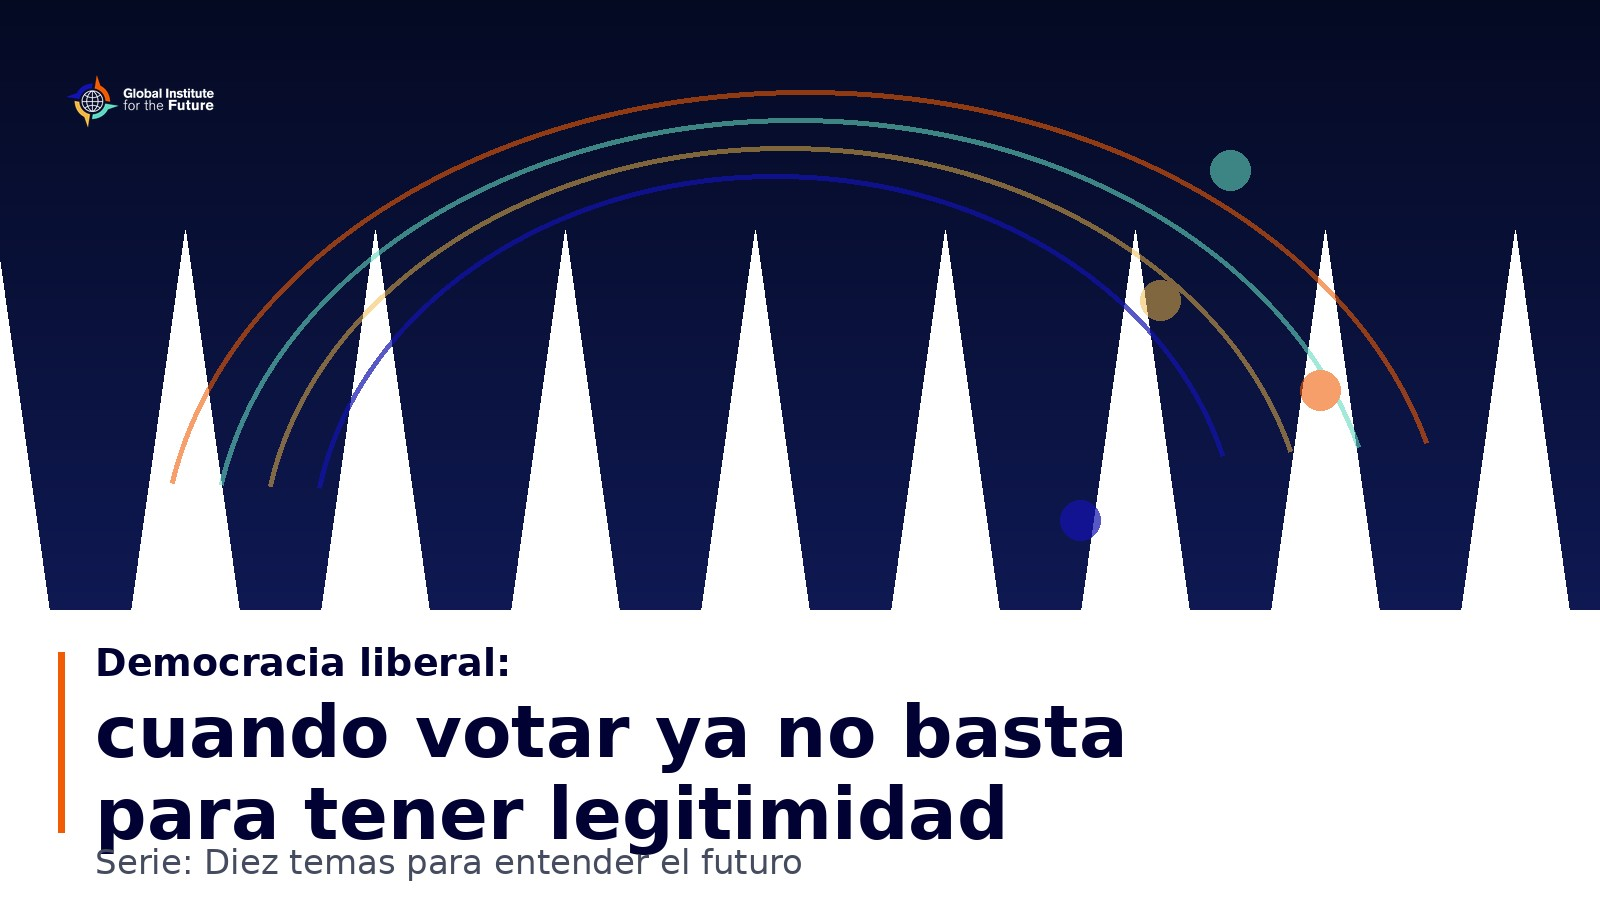
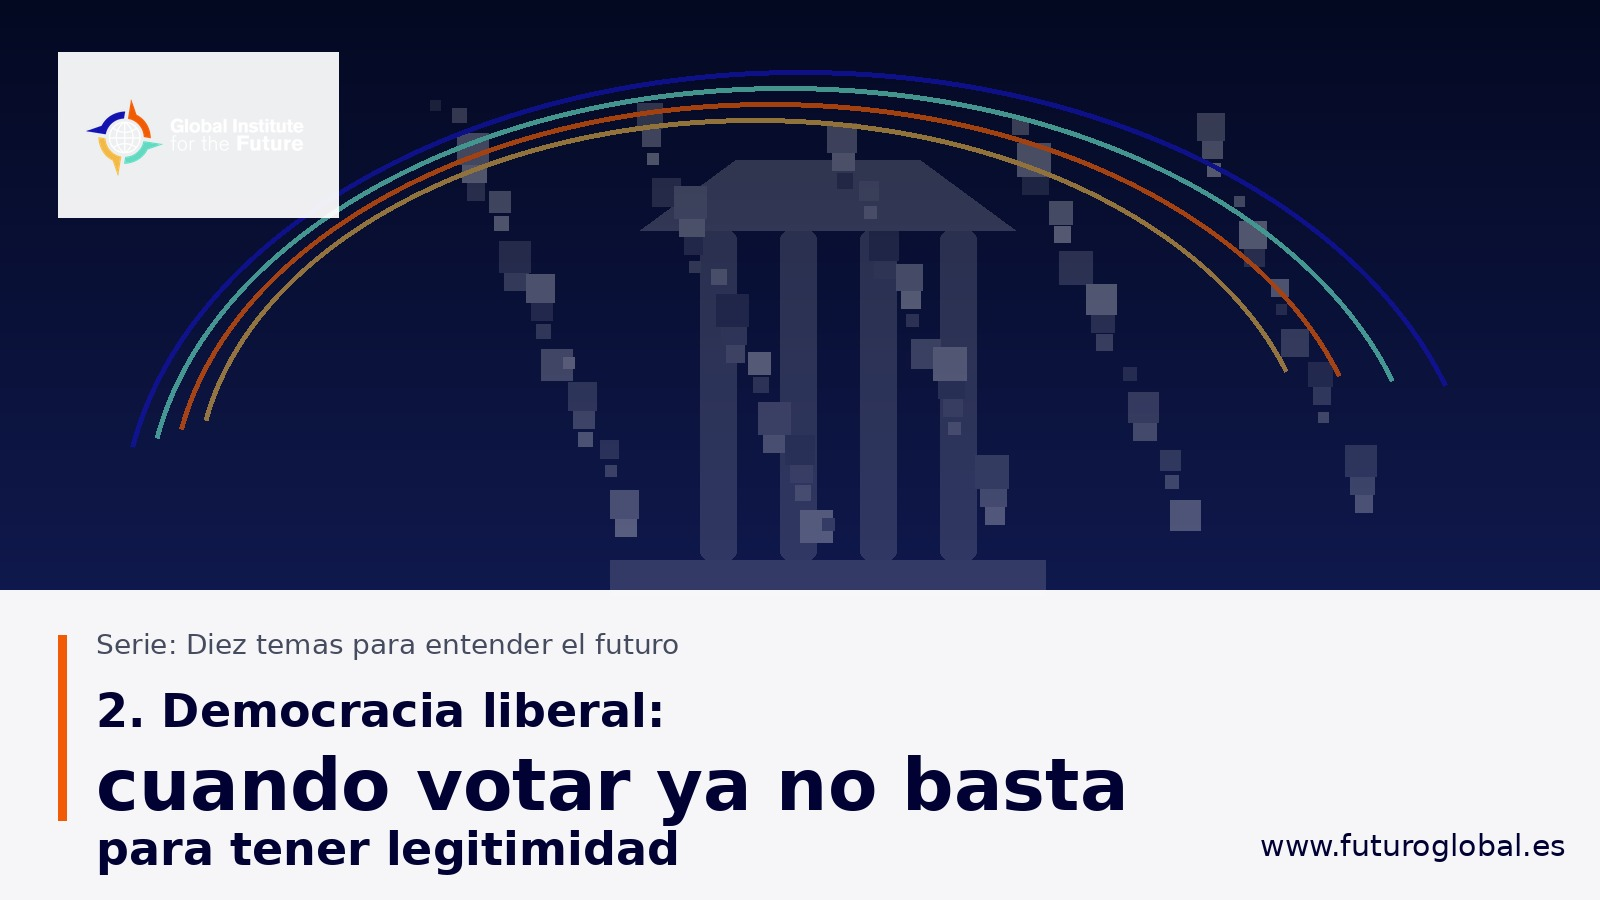
Add files via upload

diff --git a/index.html b/index.html
@@ -220,8 +220,8 @@
 <div class="highlights-grid reveal">
 <div class="highlight-main" onclick='window.location.href="cumbres/foro-turismo-iberoamerica-2026.html"'><div style="position:absolute;inset:0;background:linear-gradient(135deg,rgba(1,2,51,.82),rgba(18,18,175,.45),rgba(240,91,3,.22)),url('assets/img/home-ibero-group.jpg');background-size:cover;background-position:center;"></div><div class="highlight-main-content"><span class="highlight-tag" style="background:var(--orange);">Foro reciente</span><h3>Foro sobre el Futuro del Turismo de Iberoamérica</h3><p>Gobernanza, competitividad e innovación como bases estratégicas para el futuro del turismo iberoamericano.</p></div></div>
 <div class="highlight-side">
-<div class="highlight-card" onclick='window.location.href="articulos/democracia-liberal-legitimidad.html"' style="background:linear-gradient(160deg,#0a0650,var(--navy));color:white;"><span class="highlight-tag" style="background:var(--blue);margin-bottom:12px;">Nuevo análisis</span><h4>Democracia liberal: cuando votar ya no basta</h4><p>La crisis de legitimidad democrática y la necesidad de reinventar cómo decidimos.</p></div>
-<div class="highlight-card" onclick='window.location.href="articulos/ia-poder.html"' style="background:var(--offwhite);border:1px solid rgba(1,2,51,0.06);color:var(--navy);"><span class="highlight-tag" style="background:var(--gold);color:var(--navy);margin-bottom:12px;">White Paper</span><h4>IA y concentración de poder</h4><p>Cuando una herramienta se convierte en dependencia: análisis sobre soberanía tecnológica.</p></div>
+<div class="highlight-card" onclick='window.location.href="articulos/democracia-liberal-legitimidad.html"' style="background:linear-gradient(to top,rgba(1,2,51,.90),rgba(1,2,51,.18)),url('assets/img/democracia-liberal-cover.jpg') center/cover;color:white;"><span class="highlight-tag" style="background:var(--blue);margin-bottom:12px;">Nuevo análisis</span><h4>Democracia liberal: cuando votar ya no basta</h4><p>La crisis de legitimidad democrática y la necesidad de reinventar cómo decidimos.</p></div>
+<div class="highlight-card" onclick='window.location.href="articulos/ia-poder.html"' style="background:linear-gradient(to top,rgba(1,2,51,.90),rgba(1,2,51,.18)),url('assets/img/home-ia-poder.jpg') center/cover;color:white;"><span class="highlight-tag" style="background:var(--gold);color:var(--navy);margin-bottom:12px;">White Paper</span><h4>IA y concentración de poder</h4><p>Cuando una herramienta se convierte en dependencia: análisis sobre soberanía tecnológica.</p></div>
 </div></div></div>
 <div style="padding:80px 40px;background:var(--offwhite);border-top:4px solid var(--orange);">
 <div style="max-width:var(--max-width);margin:0 auto;">
